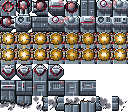
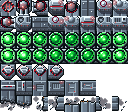
Halcyon: make base cores the first thing the eye lands on
Cores blended into the wide armoured hull, yet they are what the player
has to shoot. They now break the base's house style on purpose:

- A round armoured drum that overflows the deck, the only large round
  silhouette on a base, with a lit rim that catches the reactor light.
- A nine pixel glassy orb in a reactor hue no other element of that
  region's bases uses (hot pink, electric blue, magenta, aqua, green),
  with a white hot heart, a hard specular glint and an inner reflection.
- A black socket so the orb floats, inside a bright energy band.
- The 8 frame loop (the engine shows game_time / 2 % 8) throbs the orb
  and band from deep to white hot while four dark clamps turn around the
  band, so the core also draws the eye by moving.

The 12 and 8 px parallax sets stay scenery: far cores are a dark round
housing with a dim glow no brighter than a window. Far window lights are
now three per tower and sit on the box filter's grid, so they keep full
brightness through the downscale and survive the .38 and .6 dimming.

Changed region(s): [[0.0, 0.2679, 1.0, 0.5893]]

diff --git a/tools/art/halcyon/tiles.py b/tools/art/halcyon/tiles.py
@@ -17,12 +17,17 @@ trenches between hull blocks:
   heavy clusters read as a fortress of towers joined by wall walks.
 - Closed sides stop just short of the tile edge with chamfered corners;
   the south side shows a tall wall, so the structure has height.
+- Cores, the player's target, break the rules on purpose: a round
+  armoured drum overflowing the deck holds a big glassy orb in a hue no
+  other base element uses, floating in a black socket inside a bright
+  energy band, pulsing with four clamps turning around it.
 
 Tile index layout (8 x 7 sheet), matching the engine's map.cpp:
   0         four-way junction, landing pad variant
   1-15      cells by connection mask (U=1 R=2 D=4 L=8);
             single-bit masks (1, 2, 4, 8) are the destructible cannons
-  16-23     core, connected vertically (8 frame pulse)
+  16-23     core, connected vertically (8 frame pulse; the engine shows
+            frame game_time / 2 % 8, and has no damaged core frames)
   24-31     core, connected horizontally (8 frame pulse)
   32-35     armoured (indestructible) end caps U, R, D, L
   40-45     straight run variants (even vertical, odd horizontal)
@@ -34,12 +39,13 @@ masses, bright tower blocks with lit windows, no line detail) and box
 filtered down.
 """
 
+import colorsys
 import math
 import numpy as np
 from PIL import Image
 
-from .pix import (Canvas, hramp, glow_ramp, shift, dilate, erode,
-                  edges, rect, disc, octagon, downscale)
+from .pix import (Canvas, hramp, glow_ramp, _hue_towards, shift, dilate,
+                  erode, edges, rect, disc, octagon, downscale)
 from .render import sheet
 
 U, R, D, L = 1, 2, 4, 8
@@ -52,6 +58,22 @@ Y0, Y1 = 1, 11  # deck rows on a closed side (the wall hangs below)
 
 SHADOW = (6, 4, 18)
 HAZARD_DARK = (24, 20, 26)
+
+
+def core_ramp(hue, n=9):
+    """The reactor orb's own ramp: a deep, fully saturated shadow tone up
+    through the pure hue to a white hot top. No other base element uses
+    these hues, so the orb is the one thing on a base in this colour."""
+    out = []
+    for i in range(n):
+        t = i / float(n - 1)
+        h = _hue_towards(hue, 250.0, 0.18 * (1 - t) ** 2)
+        s = 1.0 - 0.9 * t ** 3
+        v = 0.22 + 0.78 * min(1.0, t * 1.5) ** 0.8
+        r, g, b = colorsys.hsv_to_rgb(h / 360.0, s, v)
+        out.append((int(round(r * 255)), int(round(g * 255)),
+                    int(round(b * 255))))
+    return out
 
 
 def _region(hue, sat, v0, v1, shift_, accent, light, core, stripe,
@@ -69,39 +91,43 @@ def _region(hue, sat, v0, v1, shift_, accent, light, core, stripe,
     )
 
 
-# Five material identities. Ramps are 10 shades, darkest first.
+# Five material identities. Ramps are 10 shades, darkest first. Each
+# reactor hue is picked to be one that region's hull, trim, lights and
+# turrets never use, so the core is the only thing on a base in its colour.
 REGIONS = [
-    # 1: naval gunmetal, cyan lights, amber hazard paint, cyan reactor
+    # 1: naval gunmetal, cyan lights, amber hazard paint, hot pink reactor
     _region(212, 0.22, 0.10, 0.96, 0.30,
             accent=hramp(36, 0.85, 6, v0=0.30, v1=1.0, shift=0.2),
             light=glow_ramp(185),
-            core=glow_ramp(190),
+            core=core_ramp(322),
             stripe=hramp(44, 0.95, 4, v0=0.55, v1=1.0, shift=0.1)),
-    # 2: desert fortress, sand armour, rust trim, green lights, fire core
+    # 2: desert fortress, sand armour, rust trim, green lights, electric
+    #    blue reactor
     _region(40, 0.46, 0.09, 0.98, 0.22,
             accent=hramp(10, 0.75, 6, v0=0.22, v1=0.9, shift=0.25),
             light=glow_ramp(120),
-            core=glow_ramp(14),
+            core=core_ramp(192),
             stripe=hramp(4, 0.85, 4, v0=0.45, v1=0.95, shift=0.1)),
-    # 3: jungle military, olive drab, yellow hazard, orange lights, toxic
-    #    green reactor
+    # 3: jungle military, olive drab, yellow hazard, orange lights, magenta
+    #    reactor
     _region(76, 0.34, 0.10, 1.00, 0.30,
             accent=hramp(50, 0.9, 6, v0=0.28, v1=1.0, shift=0.15),
             light=glow_ramp(24),
-            core=glow_ramp(95),
+            core=core_ramp(305),
             stripe=hramp(52, 0.95, 4, v0=0.55, v1=1.0, shift=0.1)),
-    # 4: alien crimson, plum armour, gold trim, hot pink lights, violet
+    # 4: alien crimson, plum armour, gold trim, hot pink lights, aqua
     #    reactor
     _region(330, 0.48, 0.08, 0.92, 0.30,
             accent=hramp(44, 0.8, 6, v0=0.28, v1=1.0, shift=0.2),
             light=glow_ramp(312),
-            core=glow_ramp(275),
+            core=core_ramp(168),
             stripe=hramp(46, 0.85, 4, v0=0.55, v1=1.0, shift=0.1)),
-    # 5: ice fortress, white ceramic, red markings, red lights, amber core
+    # 5: ice fortress, white ceramic, red markings, red lights, green
+    #    reactor
     _region(212, 0.20, 0.14, 1.00, 0.12,
             accent=hramp(356, 0.85, 6, v0=0.30, v1=0.95, shift=0.15),
             light=glow_ramp(354),
-            core=glow_ramp(38),
+            core=core_ramp(125),
             stripe=hramp(356, 0.9, 4, v0=0.50, v1=0.95, shift=0.1)),
 ]
 
@@ -612,56 +638,90 @@ def hard_cap(mask, rg):
     return t.image()
 
 
+CORE_C = (8.0, 7.5)   # orb centre; the drum's side shows on the last row
+CORE_R = 4.7          # orb radius: a nine pixel orb in a fifteen pixel
+                      # drum, the biggest round thing on a base
+
+
 def core(frame, vertical, rg):
+    """The reactor core, the player's target. It has to be the first thing
+    the eye lands on in any region, so it breaks every rule the rest of the
+    base follows: a round armoured drum that overflows the deck, carrying a
+    nine pixel glassy orb in a hue nothing else on the base uses, white hot
+    at the centre with a hard specular glint, floating in a black socket
+    inside a bright energy band. Over the 8 frame loop the orb and band
+    breathe and four dark clamps turn a quarter turn around the band."""
     t = Tile(rg)
     mask = (U | D) if vertical else (L | R)
-    # The core slab fills the whole cell so it meets any neighbour
-    top, flat = hull(t, 15, chamfer=0)
+    top, flat = hull(t, mask, chamfer=0)
     m = t.m
     cr = rg["core"]
-    pulse = 0.5 + 0.5 * math.cos(2 * math.pi * frame / 8)
-    cx, cy = 8.0, 6.5
-    # Hazard corners
-    for (x0, y0) in ((0, 0), (13, 0), (0, 9), (13, 9)):
-        hz = R_(x0, y0, x0 + 2, y0 + 2) & top
-        t.hazard(hz, phase=frame // 4)
-    # Energy feed glowing in the trench
-    tr = _groove(t, mask, ~DISC(cx, cy, 6.5))
-    t.c.fill(tr & TILE(), cr[2 + int(round(pulse * 2))])
-    # Housing ring with clamps
-    t.c.fill(DISC(cx, cy, 6.9), rg["outline"])
-    t.c.fill(DISC(cx, cy, 6.4), m[3])
-    e = edges(DISC(cx, cy, 6.4))
-    t.c.fill(e["top"] | e["left"], m[7])
-    t.c.fill(e["bottom"] | e["right"], m[1])
+    nc = len(cr)
+    ph = 2 * math.pi * frame / 8
+    pulse = 0.5 + 0.5 * math.cos(ph)
+    cx, cy = CORE_C
+    ddx = XS + 0.5 - cx
+    ddy = YS + 0.5 - cy
+    rr = np.hypot(ddx, ddy)
+    nw = ddx + ddy < 0
+    # Energy feeds glowing in the deck's rail channel
+    if vertical:
+        feed = R_(7, -P, 8, T + P)
+    else:
+        feed = R_(-P, 6, T + P, 7)
+    feed &= TILE()
+    t.c.fill(feed, cr[2 + int(round(pulse * 2))])
+    # The drum: dark armour, a hard lit rim to the north west, a short
+    # side wall on the south and a black outline all round
+    drum = rr <= 7.4
+    side = shift(drum, 0, 1) & ~drum
+    t.c.fill(dilate(drum | side, diag=True) & ~(drum | side) & TILE(),
+             rg["outline"])
+    t.c.fill(side, m[1])
+    t.c.fill(drum, m[2])
+    rim = drum & (rr > 6.5)
+    t.c.fill(rim & nw, m[8])
+    t.c.fill(rim & ~nw, m[3])
+    t.c.fill(rim & (np.abs(ddx - ddy) < 1.0) & (ddx < 0), m[9])
+    # Reactor light spilling over the rim
+    t.c.tint(rim, cr[nc - 3], 0.15 + 0.35 * pulse)
+    # Energy band, breathing with the pulse, lit on the far (south east)
+    # inner wall
+    band = (rr <= 6.5) & (rr > 5.5)
+    t.c.fill(band, cr[3 + int(round(pulse * 4))])
+    t.c.fill(band & nw, cr[2 + int(round(pulse * 4))])
+    # Four dark clamps crossing the band, turning a quarter turn a loop
     for k in range(4):
-        a = math.pi / 4 + k * math.pi / 2
-        bx = cx + math.cos(a) * 5.6 - 0.5
-        by = cy + math.sin(a) * 5.6 - 0.5
-        t.c.fill(R_(int(bx), int(by), int(bx) + 1, int(by) + 1), m[8])
-        t.c.px(int(bx) + 1 + P, int(by) + 1 + P, m[2])
-    # Emissive core: brightness follows the pulse
-    rad = 4.9
-    inner = DISC(cx, cy, rad)
-    t.c.fill(DISC(cx, cy, rad + 0.6) & ~inner, cr[1])
-    d = np.hypot(XS + 0.5 - cx, YS + 0.5 - cy) / rad
-    v = np.clip(1 - d, 0, 1) * (0.8 + 0.4 * pulse) + 0.2 + 0.15 * pulse
-    k = np.clip(np.round(v * (len(cr) - 1)), 0, len(cr) - 1)
-    for i in range(len(cr)):
-        t.c.fill(inner & (k == i), cr[i])
-    # Rotating shutter blades over the glow
-    a0 = 2 * math.pi * frame / 8 / 3
-    for b in range(3):
-        a = a0 + b * 2 * math.pi / 3
-        for rr in (2.8, 3.6, 4.4):
-            x = cx + math.cos(a) * rr - 0.5
-            y = cy + math.sin(a) * rr - 0.5
-            t.c.px(int(round(x)) + P, int(round(y)) + P, m[2])
-    halo = DISC(cx, cy, 8.5) & ~DISC(cx, cy, 6.9) & t.solid
-    t.c.tint(halo, cr[3], 0.15 + 0.2 * pulse)
-    on = frame % 4 < 2
-    t.light(0, 5, size=1, level=1.0 if on else 0.3, halo=False)
-    t.light(15, 5, size=1, level=0.3 if on else 1.0, halo=False)
+        a = math.pi / 4 + k * math.pi / 2 + ph / 4
+        bx = cx + math.cos(a) * 6.0
+        by = cy + math.sin(a) * 6.0
+        cl = DISC(bx, by, 1.0) & band
+        t.c.fill(cl, m[1])
+    # Black socket so the orb floats
+    t.c.fill(DISC(cx, cy, 5.5), SHADOW)
+    # The orb: a lit glass sphere, deep colour at the shadowed rim, the
+    # pure hue in the body, a white hot heart that swells with the pulse
+    # and a hard specular glint up and to the left
+    orb = DISC(cx, cy, CORE_R)
+    dx = ddx / CORE_R
+    dy = ddy / CORE_R
+    d2 = dx * dx + dy * dy
+    nz = np.sqrt(np.clip(1 - d2, 0, 1))
+    Lx, Ly, Lz = -0.5, -0.6, 0.62
+    ln = math.sqrt(Lx * Lx + Ly * Ly + Lz * Lz)
+    lit = np.clip((dx * Lx + dy * Ly + nz * Lz) / ln, 0, 1)
+    heat = np.clip(1 - np.sqrt(d2) / (0.35 + 0.35 * pulse), 0, 1)
+    v = 0.0 + 0.6 * lit ** 1.3 + 0.7 * heat + 0.2 * pulse
+    k = np.clip(np.round(v * (nc - 1)), 1, nc - 1).astype(int)
+    for i in range(nc):
+        t.c.fill(orb & (k == i), cr[i])
+    # Inner reflection: a bright crescent on the shadow side of the glass
+    refl = orb & (rr > CORE_R - 1.1) & (dx + dy > 0.8)
+    t.c.fill(refl, cr[nc - 5])
+    # Specular glint
+    gx, gy = int(cx - 3), int(cy - 3)
+    t.c.fill(R_(gx, gy, gx + 1, gy), (255, 255, 255))
+    t.c.px(gx + P, gy + 1 + P, (255, 255, 255))
     return t.image()
 
 
@@ -763,11 +823,16 @@ def far_tile(kind, arg, rg, seed=0):
         t.c.fill(roof, m[6])
         t.c.fill(edges(roof)["top"] | edges(roof)["left"], m[8])
         t.c.fill(edges(roof)["bottom"], m[4])
-        for x in range(x0 + 2, x1 - 1, 4):
-            if (x // 4 + seed) % 3:
-                t.c.fill(R_(x, 10, x + 1, 11), lt[5])
+        # Windows are three by two and sit on the 2 pixel grid, so the
+        # 8 and 12 px box filters keep a full brightness pixel for each
+        # instead of smearing it across two dim ones; that keeps them
+        # visible through the theme's .38 and .6 layer dimming.
+        for x in (2, 6, 10):
+            if (x // 4 + seed) % 4:
+                t.c.fill(R_(x, 10, x + 2, 11), lt[4])
+                t.c.fill(R_(x + 1, 10, x + 1, 10), lt[5])
         if seed % 2:
-            t.c.fill(R_(6, 2, 9, 4), lt[4])
+            t.c.fill(R_(4, 2, 7, 5), lt[4])
     elif kind == "deck":
         if seed % 4 == 0:
             t.c.fill(R_(7, 5, 8, 6), lt[3])
@@ -780,11 +845,14 @@ def far_tile(kind, arg, rg, seed=0):
         t.c.fill(shift(blk, 0, 3) & ~blk, m[1])
         t.c.fill(blk, m[5])
     elif kind == "core":
+        # Scenery, not a target: a round housing with a small, dim glow
+        # no brighter than a window, so a far core never reads as one
+        # the player can shoot
         cr = rg["core"]
         pulse = 0.5 + 0.5 * math.cos(2 * math.pi * arg[1] / 8)
-        t.c.fill(DISC(8.0, 6.5, 6.2), m[2])
-        t.c.fill(DISC(8.0, 6.5, 4.6), cr[2 + int(round(pulse))])
-        t.c.fill(DISC(8.0, 6.5, 2.6), cr[4 + int(round(pulse))])
+        t.c.fill(DISC(8.0, 7.5, 7.0), m[3])
+        t.c.fill(DISC(8.0, 7.5, 5.0), m[1])
+        t.c.fill(R_(6, 6, 9, 9), cr[2 + int(round(pulse))])
     return t.image()
 
 
